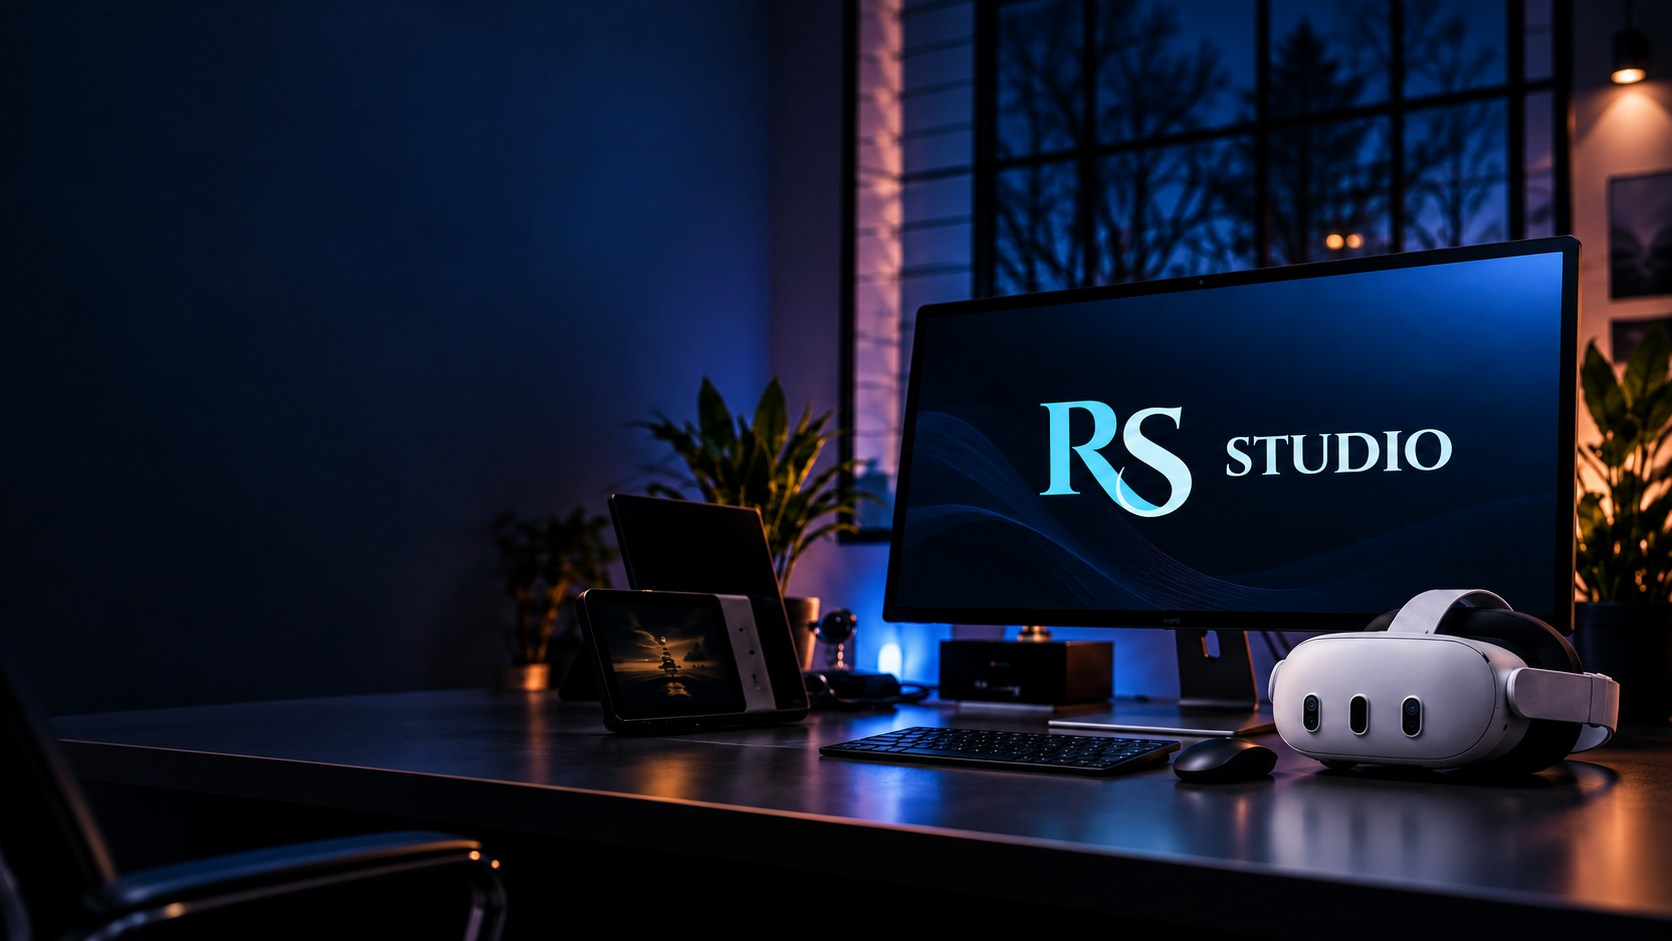
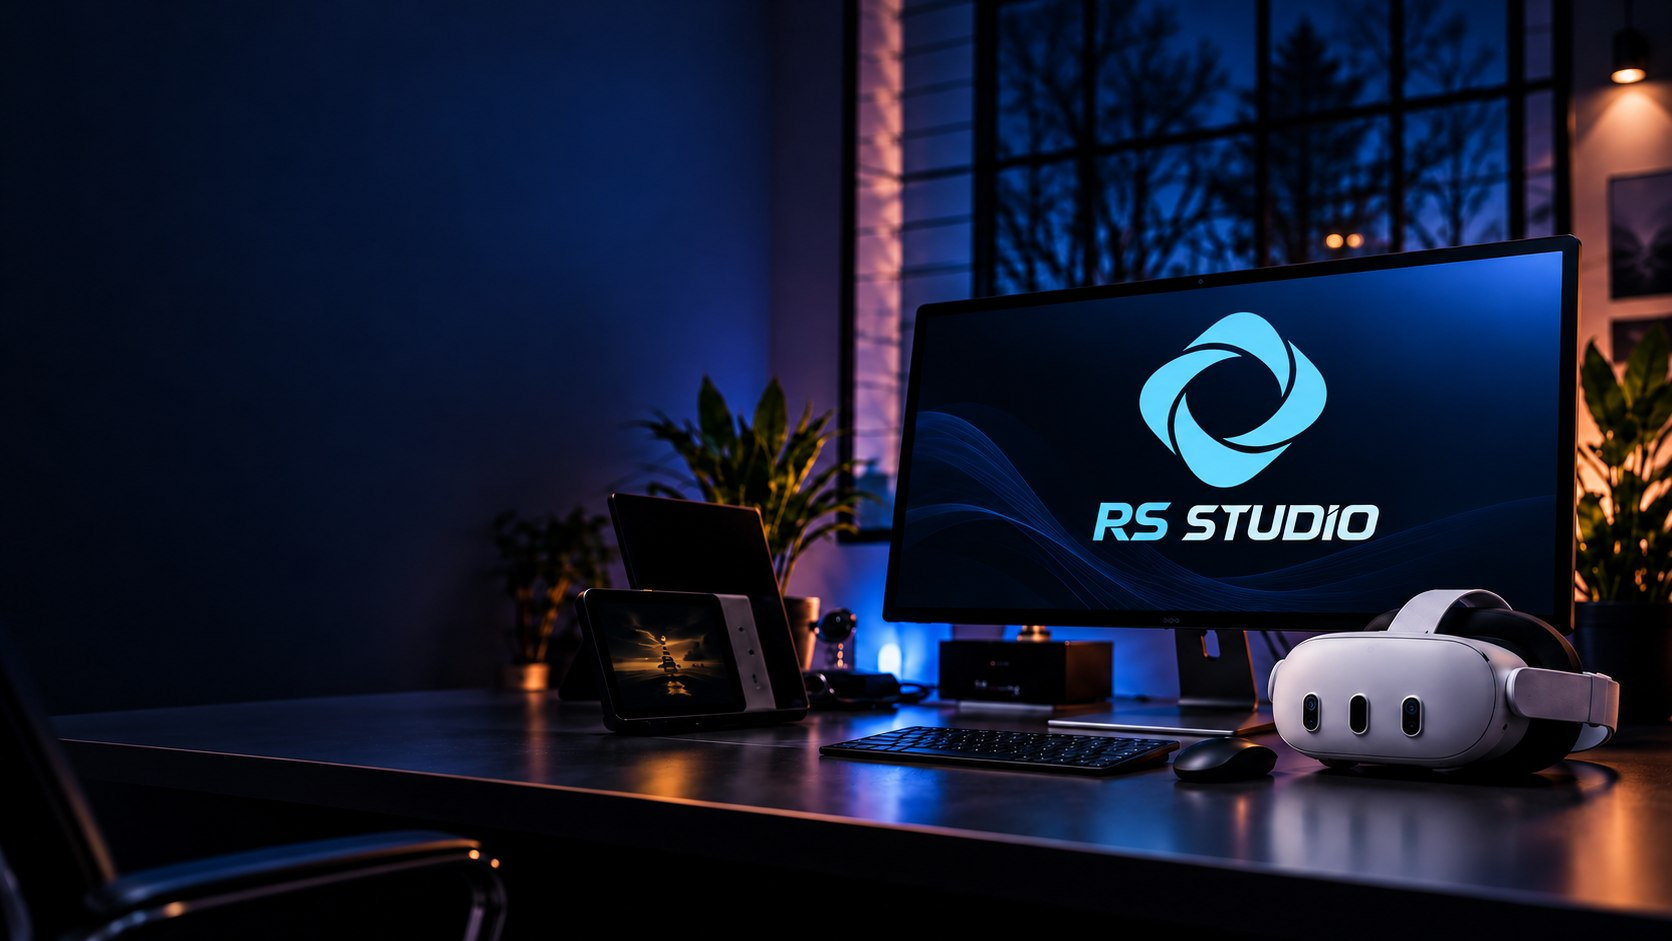
Refresh branding and color palette
Update the hero image and logo, and revise the blue and deep color tokens. The service and process card hover rule also removes its background color.

diff --git a/src/style.css b/src/style.css
@@ -4,8 +4,8 @@
   --rs-ice: #D4F0FC;
   --rs-sky: #88D6FA;
   --rs-electric: #02A9F7;
-  --rs-blue: #03577B;
-  --rs-deep: #01313F;
+  --rs-blue: #284969;
+  --rs-deep: #010E26;
   --rs-space-1: 4px;
   --rs-space-2: 8px;
   --rs-space-3: 12px;
@@ -170,7 +170,7 @@ main > section p { color: var(--rs-ice); }
 #servicos .grid article p, #processo .grid article p { color: var(--rs-ice); }
 #servicos .grid article, #processo .grid article { transition: background-color 180ms ease, box-shadow 180ms ease, transform 180ms ease; }
 @media (hover: hover) and (pointer: fine) {
-  #servicos .grid article:hover, #processo .grid article:hover { background: #07658a; box-shadow: 0 10px 28px rgb(0 0 0 / 18%); transform: translateY(-3px); }
+  #servicos .grid article:hover, #processo .grid article:hover { background: ; box-shadow: 0 10px 28px rgb(0 0 0 / 18%); transform: translateY(-3px); }
 }
 
 #processo .grid { gap: var(--rs-space-4); }
